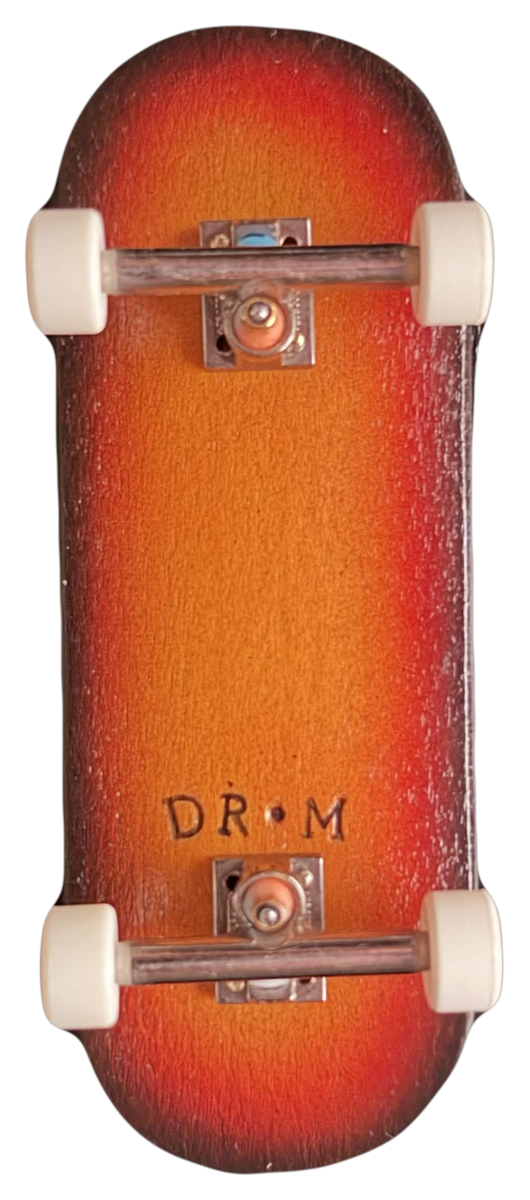
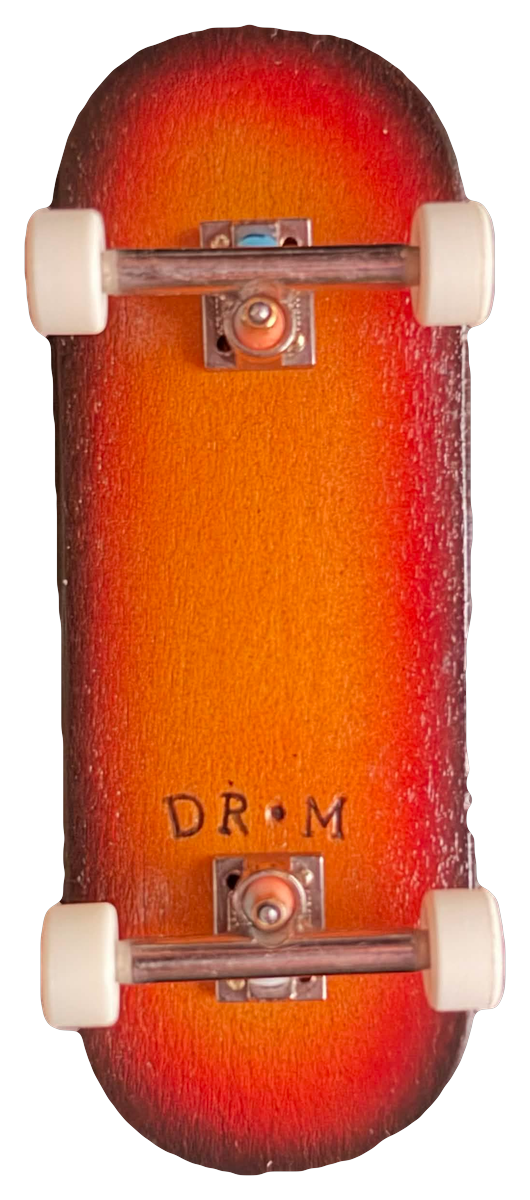
Bev's setups re-cut with Apple's subject detection (clean, whole boards)

diff --git a/photo.js b/photo.js
@@ -110,8 +110,20 @@ async function mlCut(bmp, w, h, d) {
   // the nose: a dark nose on a dark backdrop is often missed. Round off any bite out of the top third.
   const cut = y0 + Math.round(oh * 0.30), top = new Uint8Array(pw * ph);
   for (let y = y0; y < cut; y++) for (let x = 0; x < pw; x++) top[y * pw + x] = keep[y * pw + x];
-  const topClosed = morph(top, pw, ph, Math.max(3, oh * 0.11), "close");
-  for (let i = 0; i < keep.length; i++) if (topClosed[i]) keep[i] = 1;
+  const pts = [];   // convex hull of the top third (the nose of a deck is convex): fills any bite without inventing corners
+  for (let y = y0; y < cut; y++) for (let x = 0; x < pw; x++) if (top[y * pw + x] && (x === 0 || !top[y * pw + x - 1] || x === pw - 1 || !top[y * pw + x + 1] || y === y0 || y === cut - 1 || !top[(y - 1) * pw + x] || !top[(y + 1) * pw + x])) pts.push([x, y]);
+  pts.sort((p, q) => p[0] - q[0] || p[1] - q[1]);
+  const cr = (o, a, b) => (a[0] - o[0]) * (b[1] - o[1]) - (a[1] - o[1]) * (b[0] - o[0]), lowH = [], upH = [];
+  for (const p of pts) { while (lowH.length > 1 && cr(lowH[lowH.length - 2], lowH[lowH.length - 1], p) <= 0) lowH.pop(); lowH.push(p); }
+  for (let i = pts.length - 1; i >= 0; i--) { const p = pts[i]; while (upH.length > 1 && cr(upH[upH.length - 2], upH[upH.length - 1], p) <= 0) upH.pop(); upH.push(p); }
+  const hull = lowH.slice(0, -1).concat(upH.slice(0, -1));
+  if (hull.length > 2) {
+    const hc = document.createElement("canvas"); hc.width = pw; hc.height = ph;
+    const hx = hc.getContext("2d", { willReadFrequently: true }); hx.fillStyle = "#000"; hx.beginPath();
+    hull.forEach((p, i) => (i ? hx.lineTo(p[0] + 0.5, p[1] + 0.5) : hx.moveTo(p[0] + 0.5, p[1] + 0.5))); hx.closePath(); hx.fill();
+    const hd = hx.getImageData(0, 0, pw, ph).data;
+    for (let i = 0; i < keep.length; i++) if (hd[i * 4 + 3] > 127) keep[i] = 1;
+  }
   // a thin bulge of backdrop beside the wheels at the bottom: trim it (wheels are far wider and stay)
   const opened = morph(keep, pw, ph, Math.max(2, oh * 0.026), "open"), low = y1 - Math.round(oh * 0.35);
   for (let y = Math.max(0, low); y < ph; y++) for (let x = 0; x < pw; x++) keep[y * pw + x] = opened[y * pw + x];
